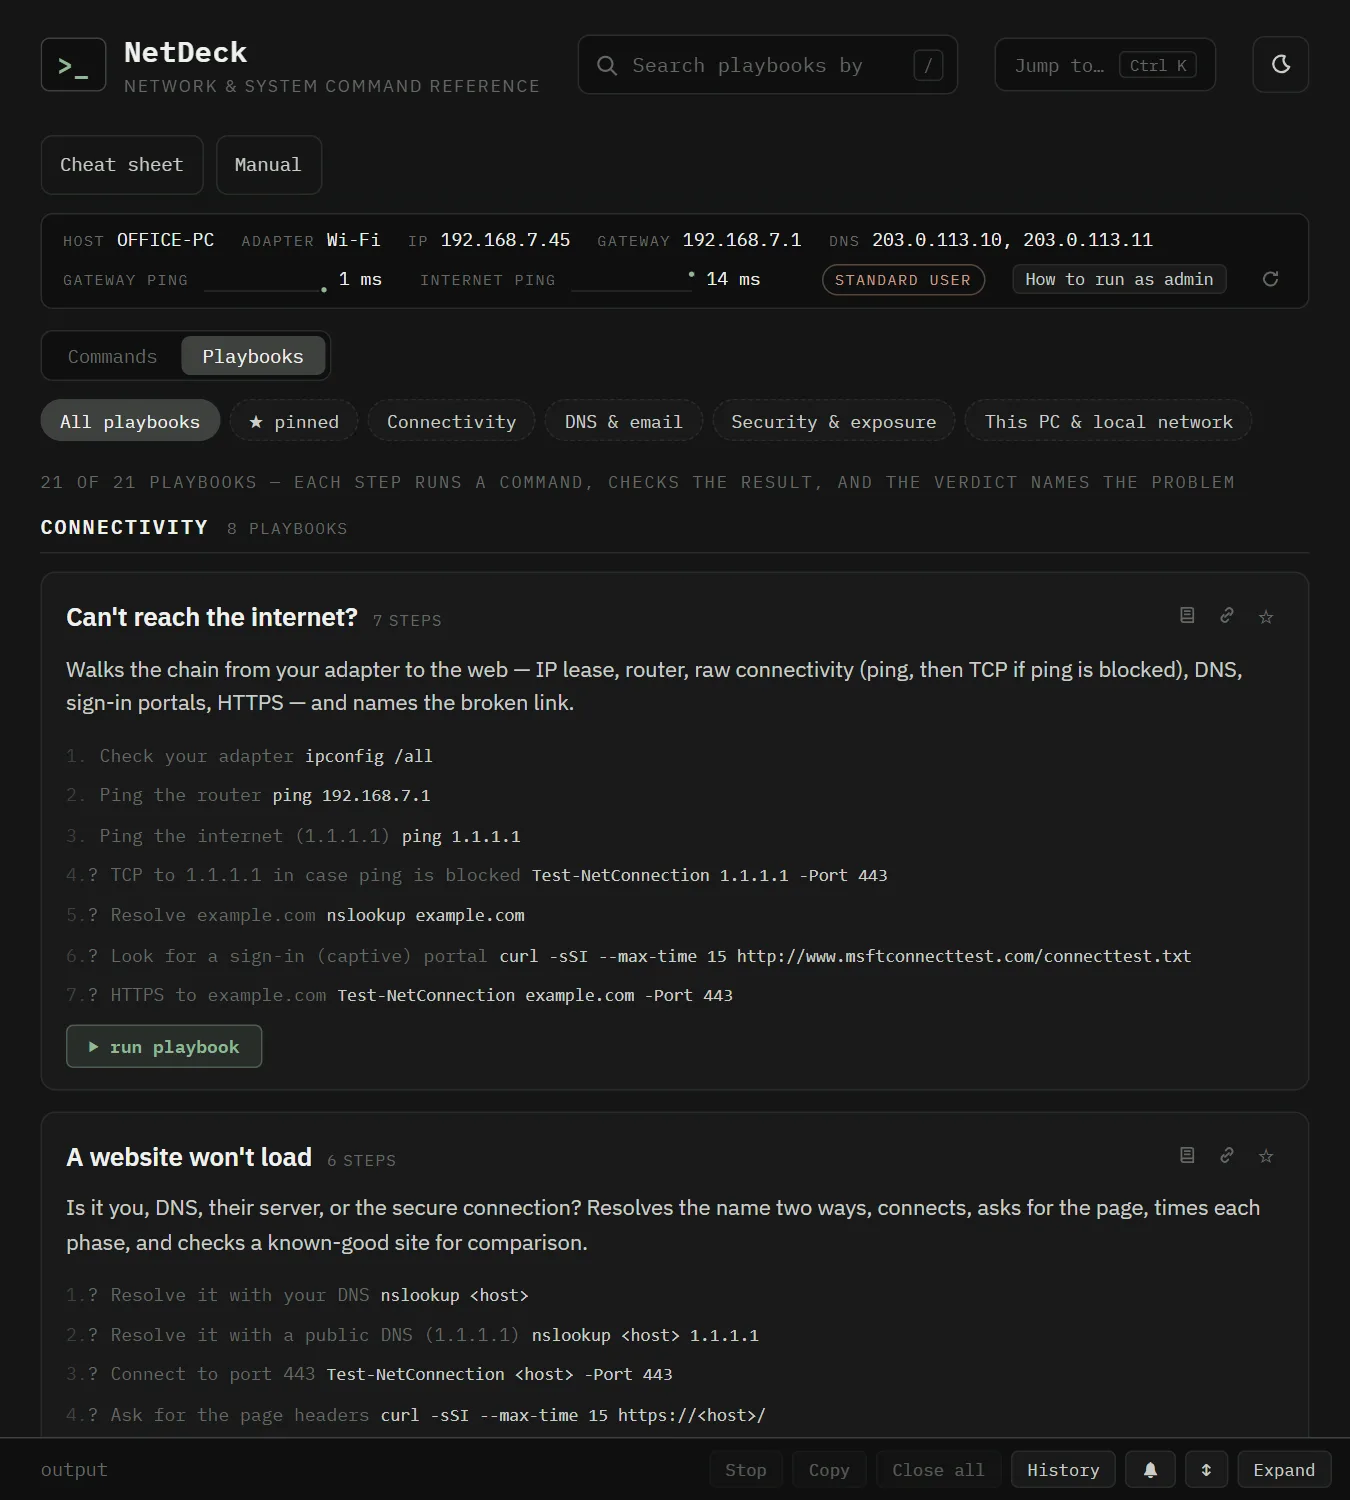
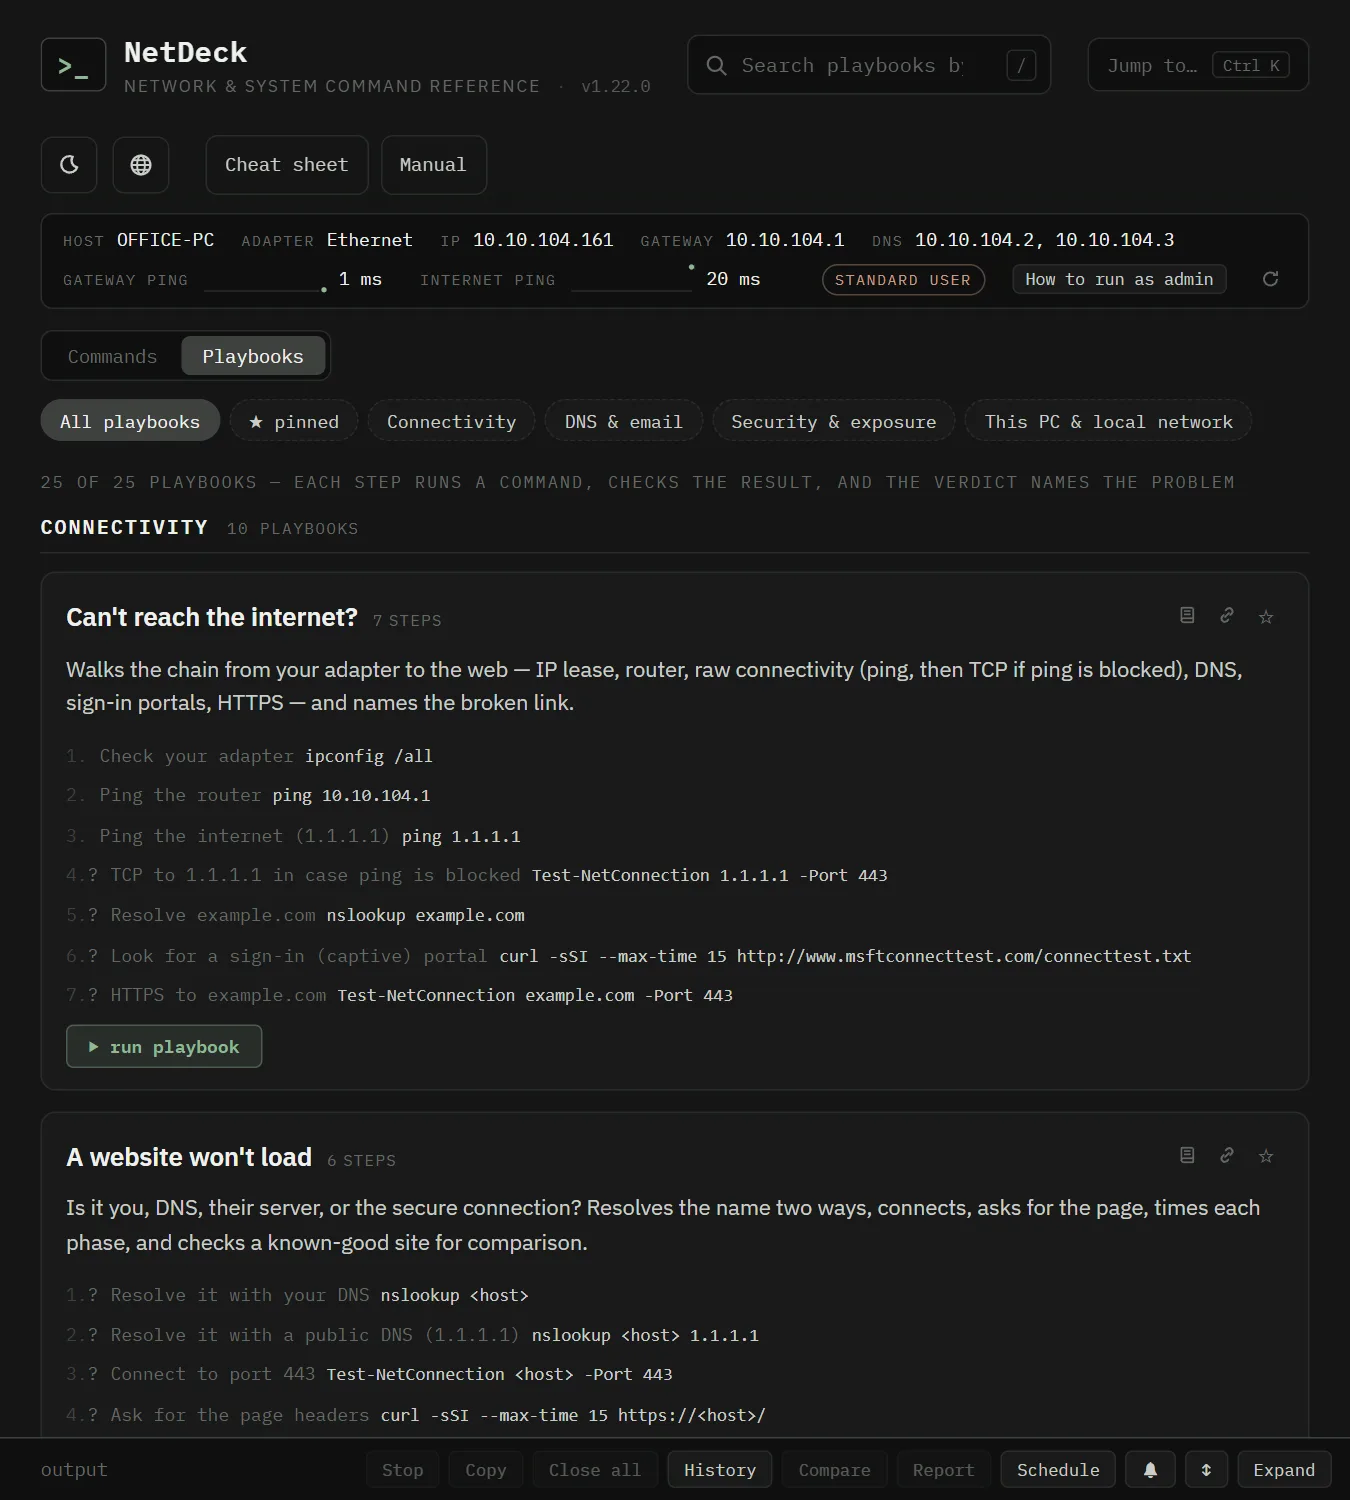
1.22.1: manual screenshots for the new playbooks
Fresh anonymised shots for Scan my network (two-step version), Is my
DNS honest?, Router check-up and Does my connection drop out?, plus a
refreshed playbook overview. The capture tool now handles several open
tables per run, aliases names from the discovery summary and any
computer-name-looking token, and matches names as whole words.

diff --git a/public/manual.html b/public/manual.html
@@ -412,7 +412,7 @@
   <li><strong>blank</strong> — the prefix is not in the IEEE registry NetDeck carries (the official list of every manufacturer's address blocks, about 54,000 entries, bundled with the app). That is rare for real hardware: it usually means a virtual adapter, a device faking its address, or a very new assignment — the registry is refreshed with each NetDeck release.</li>
 </ul>
 <p>Anything you can't account for is worth tracking down; your router's own client list usually shows a name for each address. <strong>What it will not do:</strong> it only ever scans the private subnet this PC is on, never more than 254 addresses, and refuses to run on a public address — it's a "what's on <em>my</em> network" tool, not a general scanner. Reply times aren't shown, because pinging 254 addresses at once makes them meaningless; use <code>ping</code> on one device for that.</p>
-<figure class="shot"><img src="manual-img/pb-scan.webp" width="1350" height="2658" alt="Result of the “Scan my network” playbook" loading="lazy"><figcaption>A home network with the table opened: 39 other devices in six seconds, eleven of which never answer ping. The second half of each MAC address is hidden here.</figcaption></figure>
+<figure class="shot"><img src="manual-img/pb-scan.webp" width="1350" height="5076" alt="Result of the “Scan my network” playbook" loading="lazy"><figcaption>The two-step scan: devices that announced themselves first, then the sweep — with Name filled from discovery, a Seen column, and a probe button on every row.</figcaption></figure>
 
 <h3 id="pb-lan">Who's on my network?</h3>
 <p>Pings your router to freshen the cache, then reads the ARP cache (every device your computer has recently exchanged packets with), counting real devices on your network and ignoring broadcast and multicast entries. Press <strong>table</strong> on that step to see each device's IP and MAC address. The cache only knows devices you've exchanged traffic with, so quiet ones can be missing.</p>
@@ -441,6 +441,8 @@
 
 <h3 id="pb-dropouts">Does my connection drop out?</h3>
 <p>The three-minute version of the <a href="#cmd-stability-monitor">stability monitor</a>, with a verdict: one ping a second to your router and to the internet, a line every ten seconds, runs of loss called out as they happen. Start it when the problem tends to happen and keep working; it needs no input and no admin rights. The verdict says whether dropouts are on the <em>local link</em> (router pings lost — Wi-Fi, cable, adapter, router), <em>beyond the router</em> (only internet pings lost — the ISP), or whether there is no loss but the delay wobbles (jitter, which calls and games feel). If three minutes is not enough to catch it, run the monitor command's 10-minute variant instead.</p>
+
+<figure class="shot"><img src="manual-img/pb-dropouts.webp" width="1350" height="473" alt="Result of the “Does my connection drop out?” playbook" loading="lazy"><figcaption>Three minutes of pings to the router and the internet, a line every ten seconds with a bar chart of the delay, and a verdict that separates the local link from everything beyond it.</figcaption></figure>
 
 <h3 id="pb-drops">Are packets being dropped on this PC?</h3>
 <p>The playbook behind the <a href="#cmd-pktmon-counters">packet counters</a>: for ten seconds it counts packets on every layer of this PC's network stack — the adapter, and the firewall, VPN and other filter drivers stacked on it — while it pings your router and the internet once a second and downloads a 5 MB test file from Cloudflare. Everything is measured in the same ten seconds, so the verdict can line the two up. It needs administrator rights (press <strong>Run as admin</strong> first; otherwise it just tells you so).</p>
@@ -523,8 +525,12 @@ Drops: 3, most on "WFP Native MAC Layer LightWeight Filter" (Filter), reason WFP
 <h3 id="pb-dnshonest">Is my DNS honest?</h3>
 <p>Two steps: the <a href="#cmd-dns-check">DNS honesty check</a> (who answers your lookups, tampering and interception tests, VPN leak, encryption) and the <a href="#cmd-hosts-audit">hosts file &amp; DNS cache audit</a> (redirections on this PC itself). The verdict names the one thing that matters: a hosts-file hijack (scan the PC), a tampering resolver (switch it — the verdict offers the command to copy), interception on this network (use encrypted DNS), a VPN leak (set the VPN's DNS), or honest-but-unencrypted (optional: encrypt it). No input, no admin.</p>
 
+<figure class="shot"><img src="manual-img/pb-dnshonest.webp" width="1350" height="561" alt="Result of the “Is my DNS honest?” playbook" loading="lazy"><figcaption>Both steps green: lookups leave via the office resolver, no tampering, no interception, nothing pinned in the hosts file — and the one thing to know, that it is unencrypted.</figcaption></figure>
+
 <h3 id="pb-routercheck">Router check-up</h3>
 <p>The <a href="#cmd-router-check">router check-up</a> with a verdict: telnet open is a fail, UPnP forwards or TR-069 are worth knowing about, otherwise healthy — with a reminder of the two things it cannot check for you, firmware and the admin password. Only ever your own gateway; read-only.</p>
+
+<figure class="shot"><img src="manual-img/pb-routercheck.webp" width="1350" height="428" alt="Result of the “Router check-up” playbook" loading="lazy"><figcaption>The gateway from the inside: web admin on 80/443 and SSH open, no telnet, no TR-069, UPnP not offered. Healthy — with the two things it cannot check for you spelled out.</figcaption></figure>
 
 <h3 id="pb-proxy">Proxy &amp; HTTPS inspection</h3>
 <p>Shows any proxy configured system-wide or for your account, then connects to a well-known site and reads the certificate it presents <em>to you</em>. Normally that's signed by a public certificate authority. If it's signed by a security product instead — Zscaler, Fortinet, Sophos, an antivirus "web shield" — your HTTPS traffic is being decrypted and re-signed on the way. On a work PC that's usually policy; on a personal one it's worth knowing about.</p>

diff --git a/tools/capture-manual-shots.js b/tools/capture-manual-shots.js
@@ -19,7 +19,8 @@ const RUNS = [
   { id: 'dns' }, { id: 'propagation', vals: { host: 'example.com' } }, { id: 'email', vals: { host: 'google.com' } },
   { id: 'exposure' }, { id: 'outbound' }, { id: 'proxy' },
   { id: 'pchealth' }, { id: 'timesync' }, { id: 'routing' }, { id: 'dhcp' }, { id: 'lan', openTable: 1 }, { id: 'ipv6' },
-  { id: 'scan', openTable: 0 },
+  { id: 'scan', openTables: [1] },
+  { id: 'dnshonest' }, { id: 'routercheck' }, { id: 'dropouts' },
 ];
 const ONLY = process.argv.slice(3);
 const SELECTED = ONLY.length ? RUNS.filter((r) => ONLY.includes(r.id)) : RUNS;
@@ -39,9 +40,12 @@ const SCRUB = `(() => {
       const cell = tr.children[idx];
       const v = cell && cell.textContent.trim();
       if (!v || v === host) return;
-      if (!window.__nameMap.has(v)) window.__nameMap.set(v, 'device-' + (1 + window.__nameMap.size) + '.lan');
+      for (const part of v.split(' / ').map((p) => p.trim()).filter((p) => p && p.length >= 4 && p !== host && !/^(this pc|router)$/i.test(p))) { if (!window.__nameMap.has(part)) window.__nameMap.set(part, 'device-' + (1 + window.__nameMap.size) + '.lan'); }
     });
   });
+  // names the discovery step lists in its summary never reach a table when that table is closed
+  const alias = (p) => { p = p.trim(); if (p.length >= 4 && p !== host && !/^(this pc|router)$/i.test(p) && !window.__nameMap.has(p)) window.__nameMap.set(p, 'device-' + (1 + window.__nameMap.size) + '.lan'); };
+  document.querySelectorAll('.pb-summary').forEach((el) => { const m = el.textContent.match(/answered with a name: (.*)$/); if (m) m[1].split(',').forEach((p) => alias(p.replace(/…/g, ''))); });
   const walker = document.createTreeWalker(document.body, NodeFilter.SHOW_TEXT);
   const nodes = []; while (walker.nextNode()) nodes.push(walker.currentNode);
   for (const n of nodes) {
@@ -49,7 +53,8 @@ const SCRUB = `(() => {
     if (!t || !t.trim()) continue;
     const before = t;
     if (host) t = t.split(host).join('OFFICE-PC').split(host.toLowerCase()).join('office-pc');
-    window.__nameMap.forEach((alias, name) => { t = t.split(name).join(alias); });
+    t = t.replace(/\\b(DESKTOP|LAPTOP|WIN)-[A-Z0-9]{5,}\\b/g, 'OFFICE-PC').replace(/\\b[A-Z][A-Z0-9]{2,}-PC\\b/g, 'device-x.lan');
+    window.__nameMap.forEach((alias, name) => { const re = new RegExp('(^|[^A-Za-z0-9])' + name.replace(/[.*+?^$()|[\\]{}\\\\]/g, '\\\\$&') + '(?![A-Za-z0-9])', 'g'); t = t.replace(re, '$1' + alias); });
     t = t.replace(/\\b(\\d{1,3}(?:\\.\\d{1,3}){3})\\b/g, (m) => mapIp(m));
     t = t.replace(/\\b([0-9a-f]{2}[-:][0-9a-f]{2}[-:][0-9a-f]{2})[-:][0-9a-f]{2}[-:][0-9a-f]{2}[-:][0-9a-f]{2}\\b/gi, '$1-xx-xx-xx');
     t = t.replace(/\\bfd[0-9a-f]{2}:[0-9a-f:]{8,}/gi, 'fd12:3456:789a::1f');
@@ -116,10 +121,9 @@ const CAPTURE_CSS = `
       const vals = ${JSON.stringify(run.vals || {})};
       for (const [k, v] of Object.entries(vals)) c.querySelector('#pb-${run.id}-' + k).value = v;
       c.querySelector('.run-btn').click();
-      for (let i = 0; i < 800; i++) { if (document.querySelector('.pane:not([hidden]) .pb-verdict:not([hidden])')) break; await new Promise(r => setTimeout(r, 250)); }
+      for (let i = 0; i < 1000; i++) { if (document.querySelector('.pane:not([hidden]) .pb-verdict:not([hidden])')) break; await new Promise(r => setTimeout(r, 250)); }
       const pane = document.querySelector('.pane:not([hidden])');
-      const openTable = ${run.openTable ?? -1};
-      if (openTable >= 0) { const b = pane.querySelectorAll('.pb-step')[openTable]?.querySelector('.pb-table-btn'); if (b && !b.hidden) { b.click(); await new Promise(r => setTimeout(r, 1200)); } }
+      for (const openTable of ${JSON.stringify(run.openTables ?? (run.openTable >= 0 ? [run.openTable] : []))}) { const b = pane.querySelectorAll('.pb-step')[openTable]?.querySelector('.pb-table-btn'); if (b && !b.hidden) { b.click(); await new Promise(r => setTimeout(r, 1200)); } }
       return pane.querySelector('.pb-verdict')?.dataset.tone || 'no-verdict';
     })()`);
     await send('Runtime.evaluate', { expression: `(() => { const s = document.createElement('style'); s.id = '__cap'; s.textContent = ${JSON.stringify(CAPTURE_CSS)}; document.head.appendChild(s); })()` });

diff --git a/public/version.js b/public/version.js
@@ -1,2 +1,2 @@
 // Generated by tools/bump.js — do not edit; run "node tools/bump.js" instead.
-window.NETDECK_VERSION = '1.22.0';
+window.NETDECK_VERSION = '1.22.1';
